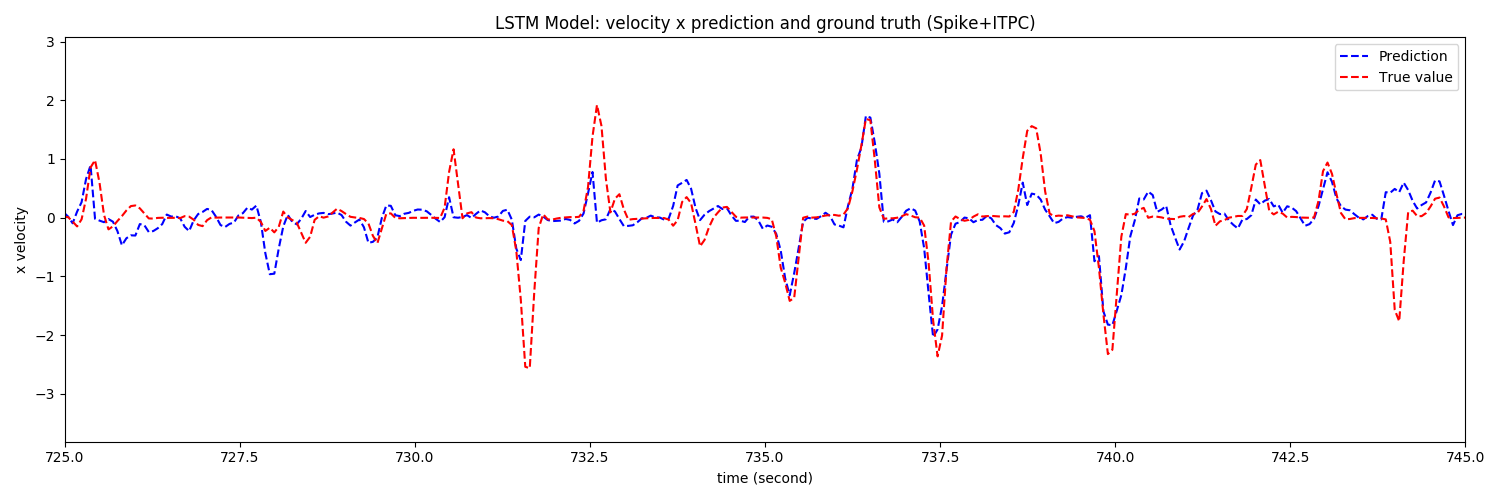
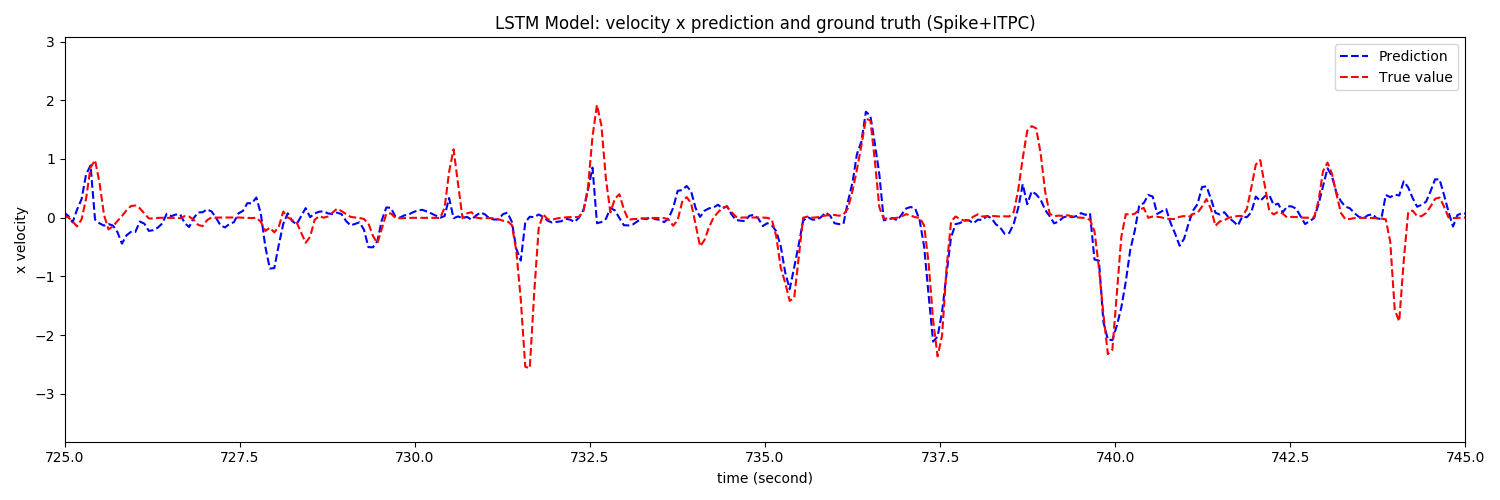
97ft, 96+abs(angle)*sync

diff --git a/Python_code/Pytorch/ITPC/ITPC_LSTM.py b/Python_code/Pytorch/ITPC/ITPC_LSTM.py
@@ -343,14 +343,18 @@ for k in range(new_training_x.size(0)):
     for i in range(96):
         # pass
         # new_training_x[k,i]=new_training_x[k,i]*new_training_x[k,-1]*new_training_x[k,-2]
-        # new_training_x[k,i]=new_training_x[k,i]*abs(new_training_x[k,-2])*new_training_x[k,-1]
-        new_training_x[k,-2]=abs(new_training_x[k,-2])
+        # new_training_x[k,i]=new_training_x[k,i]*abs(new_training_x[k,-2])
+        # new_training_x[k,-2]=abs(new_training_x[k,-2])
+        new_training_x[k,-2]=abs(new_training_x[k,-2])*new_training_x[k,-1]
+
+
 for k in range(new_testing_x.size(0)):
     for i in range(96):
         # pass
         # new_testing_x[k,i]=new_testing_x[k,i]*new_testing_x[k,-1]*new_testing_x[k,-2]
-        # new_testing_x[k,i]=new_testing_x[k,i]*abs(new_testing_x[k,-2])*new_testing_x[k,-1]
-        new_testing_x[k,-2]=abs(new_testing_x[k,-2])
+        # new_testing_x[k,i]=new_testing_x[k,i]*abs(new_testing_x[k,-2])
+        # new_testing_x[k,-2]=abs(new_testing_x[k,-2])
+        new_testing_x[k,-2]=abs(new_testing_x[k,-2])*new_testing_x[k,-1]
 
 new_training_x=new_training_x[:,:-1]
 new_testing_x=new_testing_x[:,:-1]
